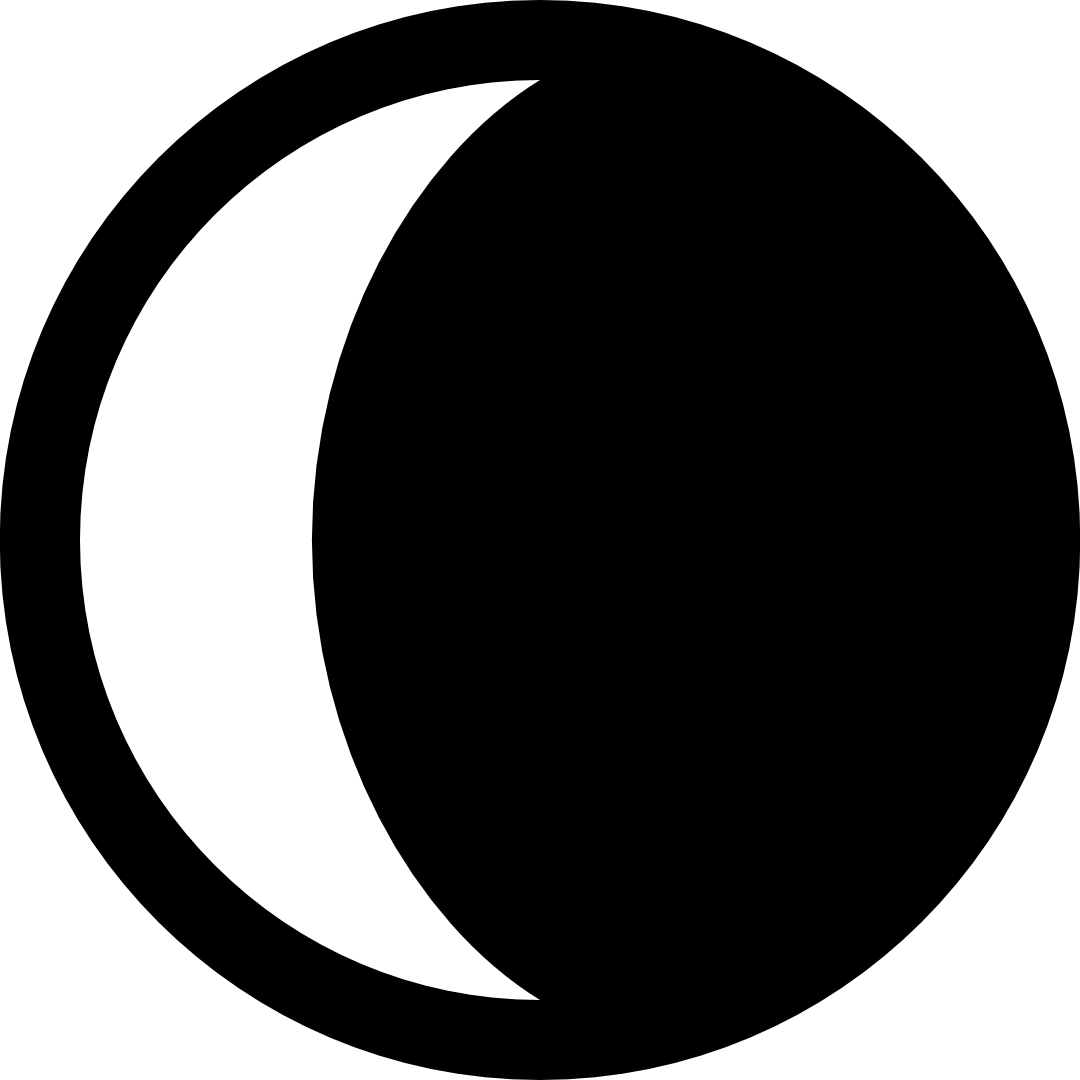
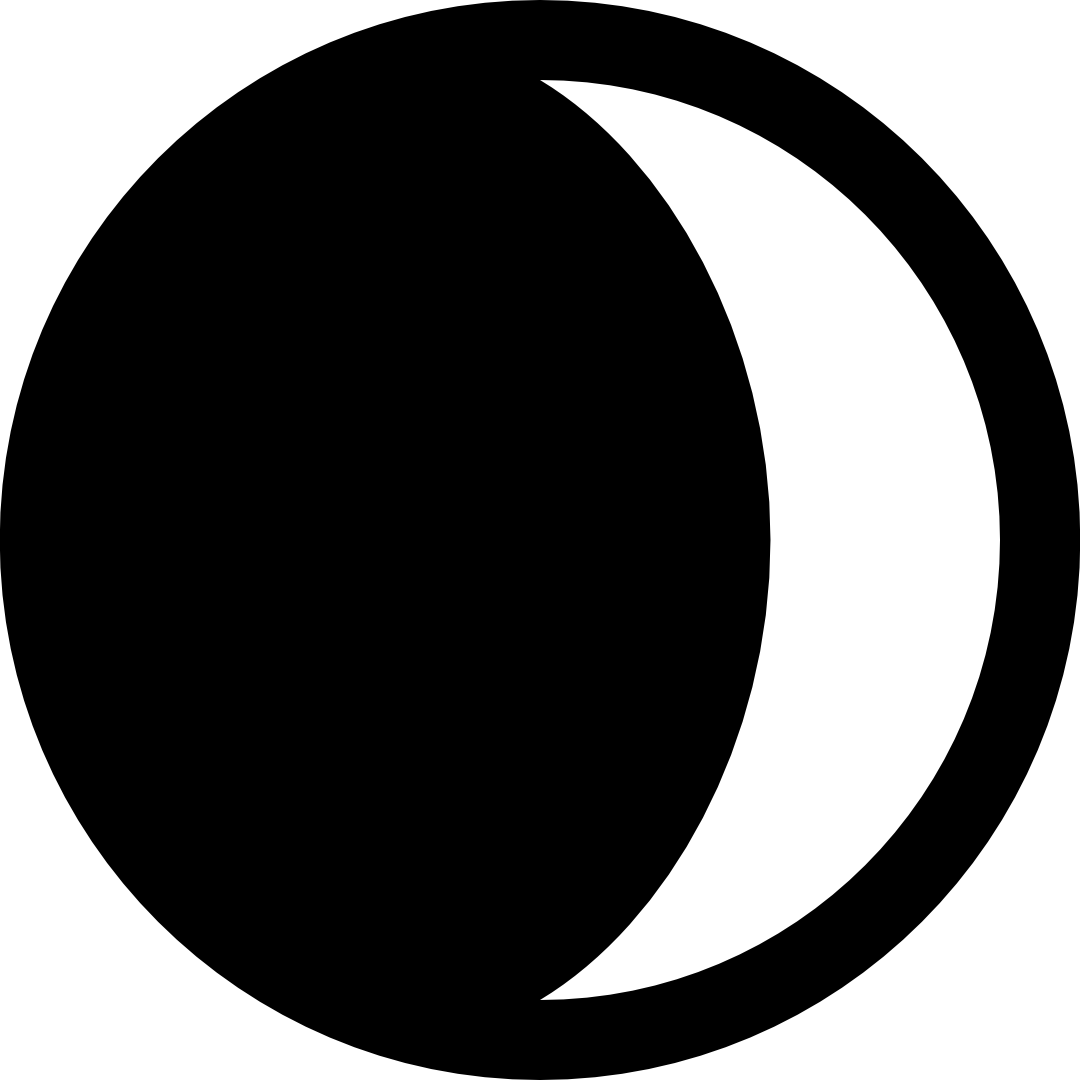
Use ephem for more accurate moonphases

diff --git a/watches/utils/moons.py b/watches/utils/moons.py
@@ -1,31 +1,35 @@
 # calculating moonphase
+import ephem
 from datetime import date
 
 
 def moonphase():
+    # Get today's date
     today = date.today()
-    day_delta = (today - date(2000, 1, 6)).days
-    synodic = 29.53058770576
-    phase = day_delta % synodic
 
-    match phase:
-        case phase if 0 < phase <= 1.0:
-            return 'new_moon'
-        case phase if 1.0 < phase <= 6.382647:
-            return 'waxing_crescent'
-        case phase if 6.382647 < phase <= 8.382647:
-            return 'first_quarter'
-        case phase if 8.382647 < phase <= 13.765294:
-            return 'waxing_gibbous'
-        case phase if 13.765294 < phase <= 15.765294:
-            return 'full_moon'
-        case phase if 15.765294 < phase <= 21.147941:
-            return 'waning_gibbous'
-        case phase if 21.147941 < phase <= 23.147941:
-            return 'last_quarter'
-        case phase if 23.147941 < phase <= 28.530588:
-            return 'waning_crescent'
-        case phase if 28.530588 < phase <= 29.530588:
-            return 'new_moon'
-        case _:
-            return 'moonphase'
+    # Set up the observer
+    moon = ephem.Moon()
+    moon.compute(today.strftime("%Y/%m/%d"))
+
+    # The moon phase angle: 0 = new moon, 180 = full moon
+    phase_angle = moon.phase
+
+    # Determine the moon phase based on the angle
+    if 0 <= phase_angle < 1:
+        return 'new_moon'
+    elif 1 <= phase_angle < 90:
+        return 'waxing_crescent'
+    elif 90 <= phase_angle < 100:
+        return 'first_quarter'
+    elif 100 <= phase_angle < 170:
+        return 'waxing_gibbous'
+    elif 170 <= phase_angle <= 180:
+        return 'full_moon'
+    elif 180 < phase_angle <= 260:
+        return 'waning_gibbous'
+    elif 260 < phase_angle < 270:
+        return 'last_quarter'
+    elif 270 <= phase_angle < 360:
+        return 'waning_crescent'
+    else:
+        return 'new_moon'
